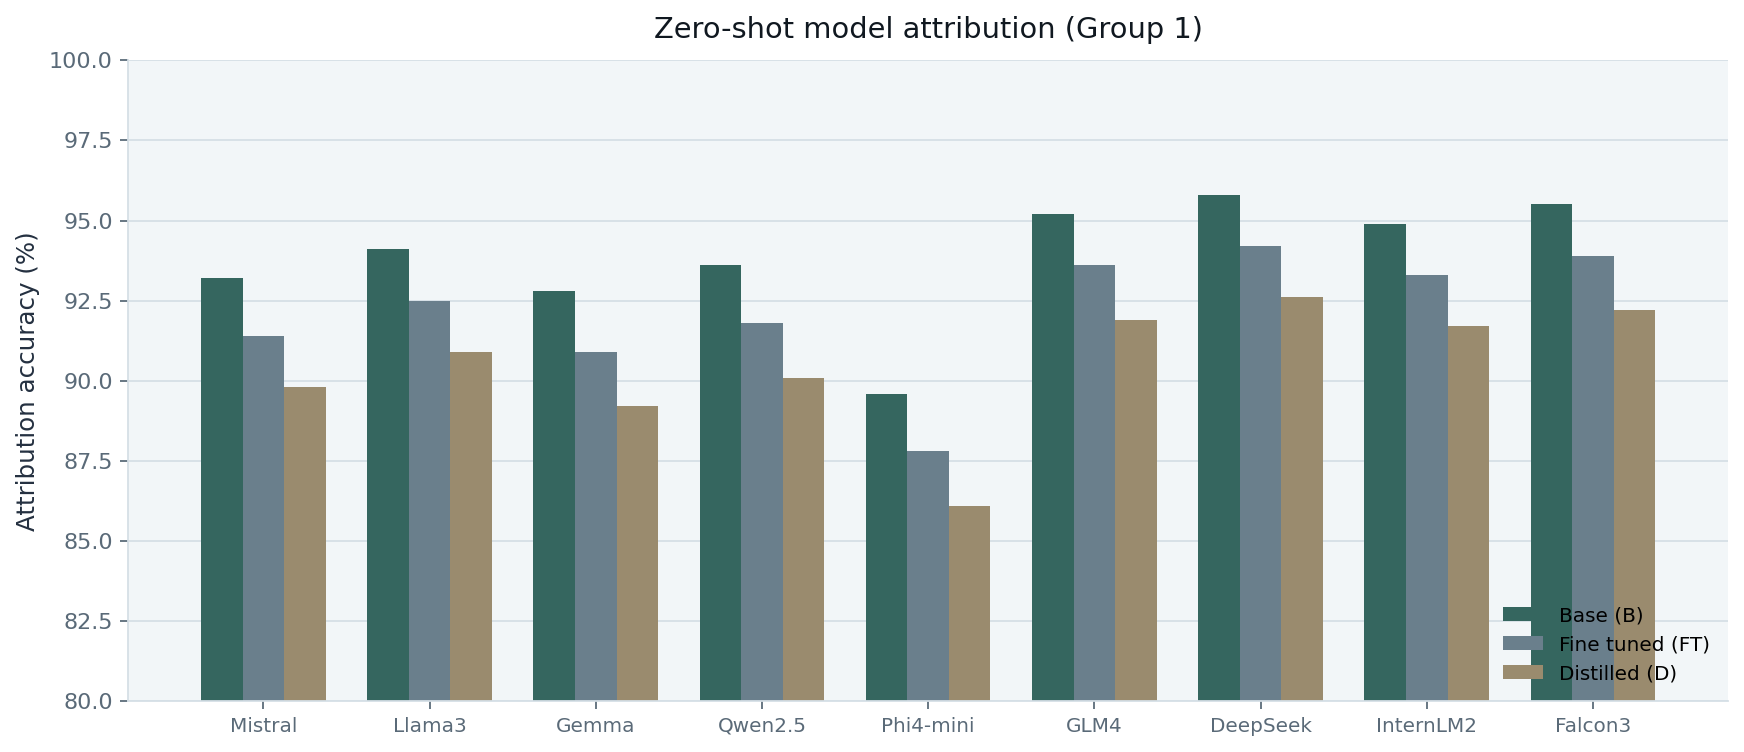
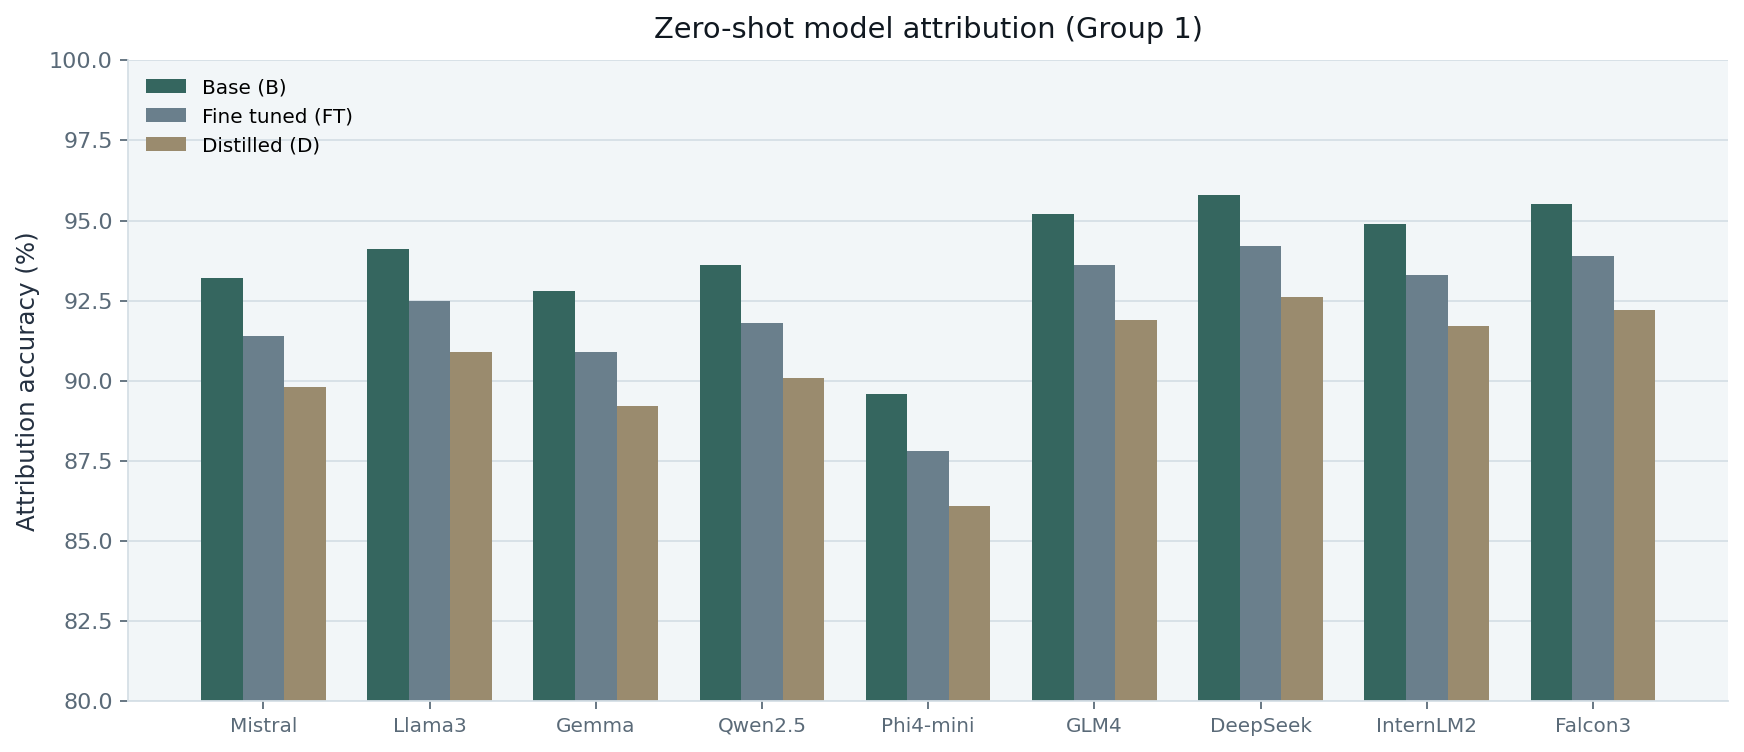
Show dataset samples in the README table and fix attribution legend placement.

Changed region(s): [[0.0619, 0.0918, 0.1858, 0.2141], [0.836, 0.7952, 0.9599, 0.9176]]

diff --git a/README.md b/README.md
@@ -18,20 +18,20 @@ We give a local geometric characterization of semantic invariance in language mo
 
 **🧪 Synthetic Data Set**
 ---
-To isolate meaning-preserving (SP) vs meaning-changing (SC) variation, we construct a synthetic English dataset of short prompts organized into semantic groups. Each group starts from an anchor sentence; SP variants paraphrase the anchor, soft SC variants keep the same topic family but change the intended meaning, and hard SC variants move to a different topic or domain. Groups span multiple domains, with disjoint discovery and validation splits (1,400 groups · 13 domains · 57,400 sentences overall). The table below shows the per-group paraphrase budget around each anchor for ten example groups from the explorer.
+To isolate meaning-preserving (SP) vs meaning-changing (SC) variation, we construct a synthetic English dataset of short prompts organized into semantic groups. Each group starts from an anchor sentence; SP variants paraphrase the anchor, soft SC variants keep the same topic family but change the intended meaning, and hard SC variants move to a different topic or domain. Groups span multiple domains, with disjoint discovery and validation splits (1,400 groups · 13 domains · 57,400 sentences overall). The table below shows one sample of each type for ten example groups (counts per group in the column headers).
 
-| Group | SP | Soft SC | Hard SC |
-| --- | ---: | ---: | ---: |
-| 🐈 Cats | 20 | 10 | 10 |
-| 🇫🇷 France | 20 | 10 | 10 |
-| 🐍 Python | 20 | 10 | 10 |
-| 🌱 Photosynthesis | 20 | 10 | 10 |
-| 🗳 Democracy | 20 | 10 | 10 |
-| 🧠 Einstein | 20 | 10 | 10 |
-| 🌡 Climate Change | 20 | 10 | 10 |
-| ∫ Calculus | 20 | 10 | 10 |
-| 🧘 Meditation | 20 | 10 | 10 |
-| 🍞 Bread | 20 | 10 | 10 |
+| Group | SP (20) | Soft SC (10) | Hard SC (10) |
+| --- | --- | --- | --- |
+| 🐈 Cats | Describe the hunting habits of domestic cats. | Describe the sleeping behavior of domestic cats. | Describe the migration of monarch butterflies. |
+| 🇫🇷 France | Which language is officially recognized in France? | What is the capital city of France? | What is the longest river in South America? |
+| 🐍 Python | What factors led to Python becoming the dominant language in data science? | Why did Python become popular in academia? | What causes ocean tides on Earth? |
+| 🌱 Photosynthesis | What are the advantages and disadvantages of engineering crops for improved photosynthesis? | What are the pros and cons of engineering crops for drought resistance? | How does a transistor amplify an electrical signal? |
+| 🗳 Democracy | What role does free speech play in a democratic society? | Describe the role of free press in a democratic society. | How do black holes form from collapsing stars? |
+| 🧠 Einstein | Which theory is Albert Einstein best known for? | What is Einstein's nationality? | What is the chemical formula for table salt? |
+| 🌡 Climate Change | What impact does climate change have on global sea levels? | Describe the effect of climate change on Arctic ecosystems. | How does the digestive system break down proteins? |
+| ∫ Calculus | How is the derivative of a composite function calculated? | How do you evaluate the limit of a function? | What languages were spoken in the Roman Empire? |
+| 🧘 Meditation | What cognitive benefits are associated with regular meditation practice? | Describe the physical benefits of regular meditation practice. | How do jet engines produce thrust? |
+| 🍞 Bread | What is the main leavening agent in sourdough bread? | What is the main ingredient in sourdough bread? | What is the boiling point of water at sea level? |
 
 **📊 Results Snapshot**
 ---
